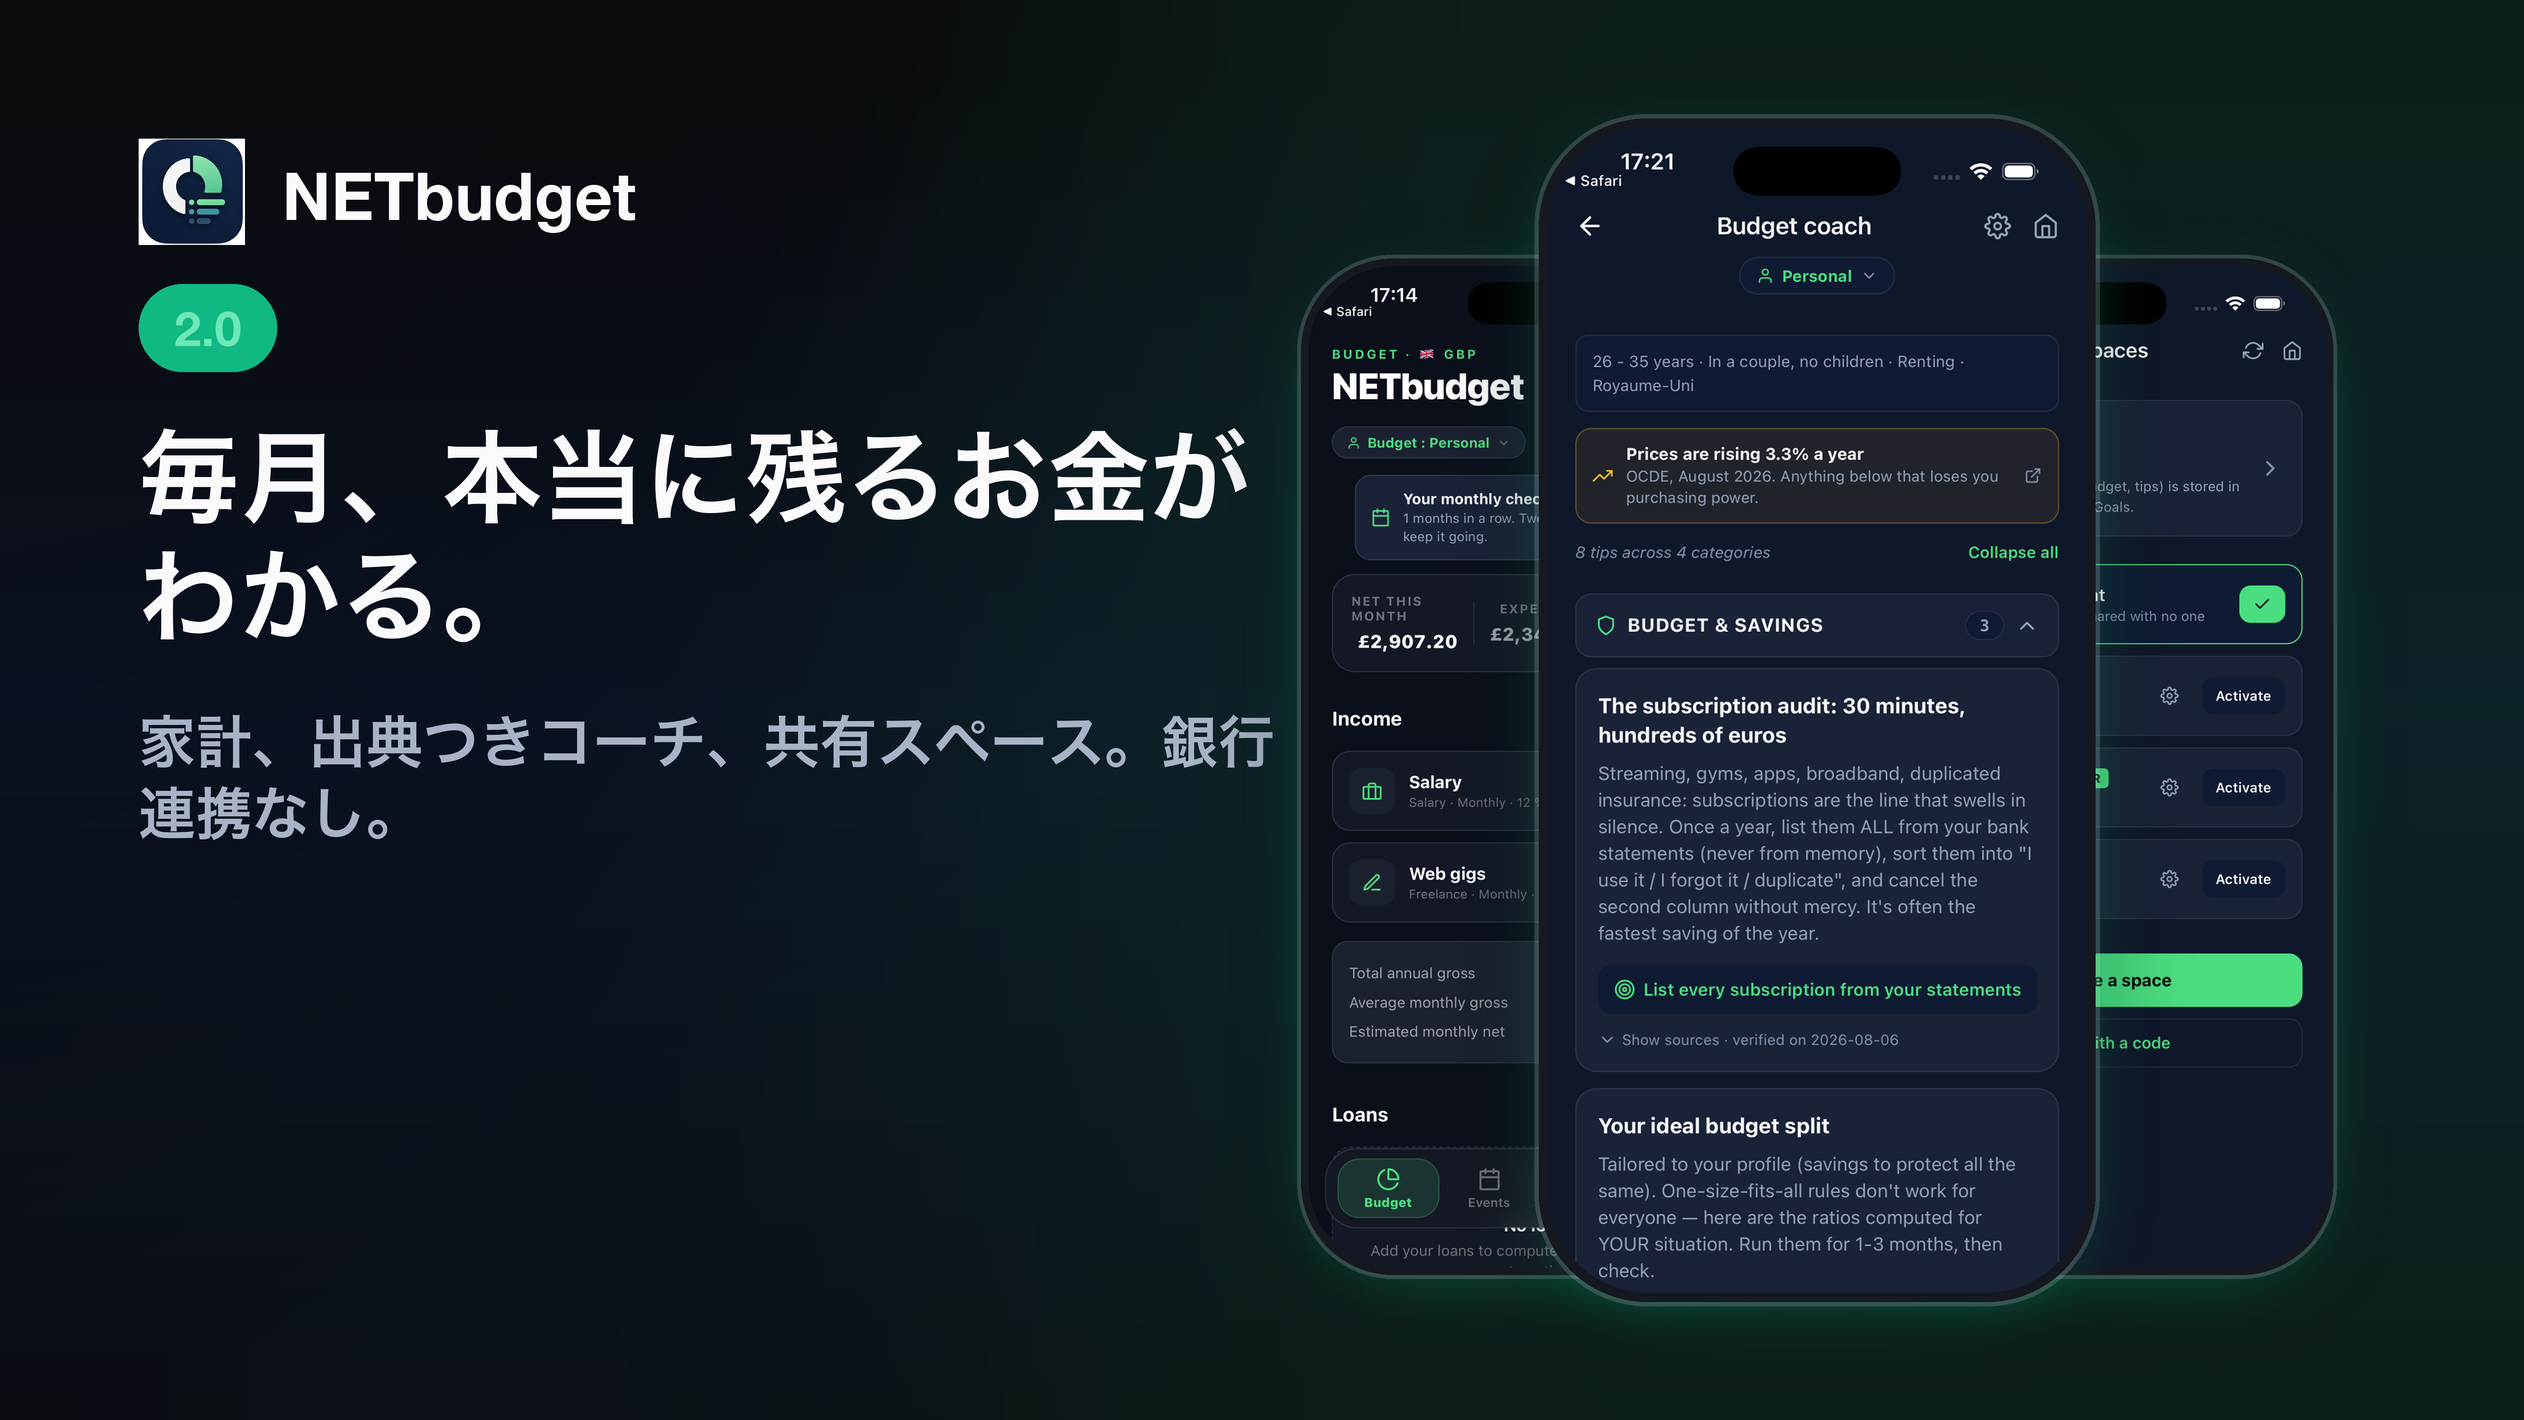
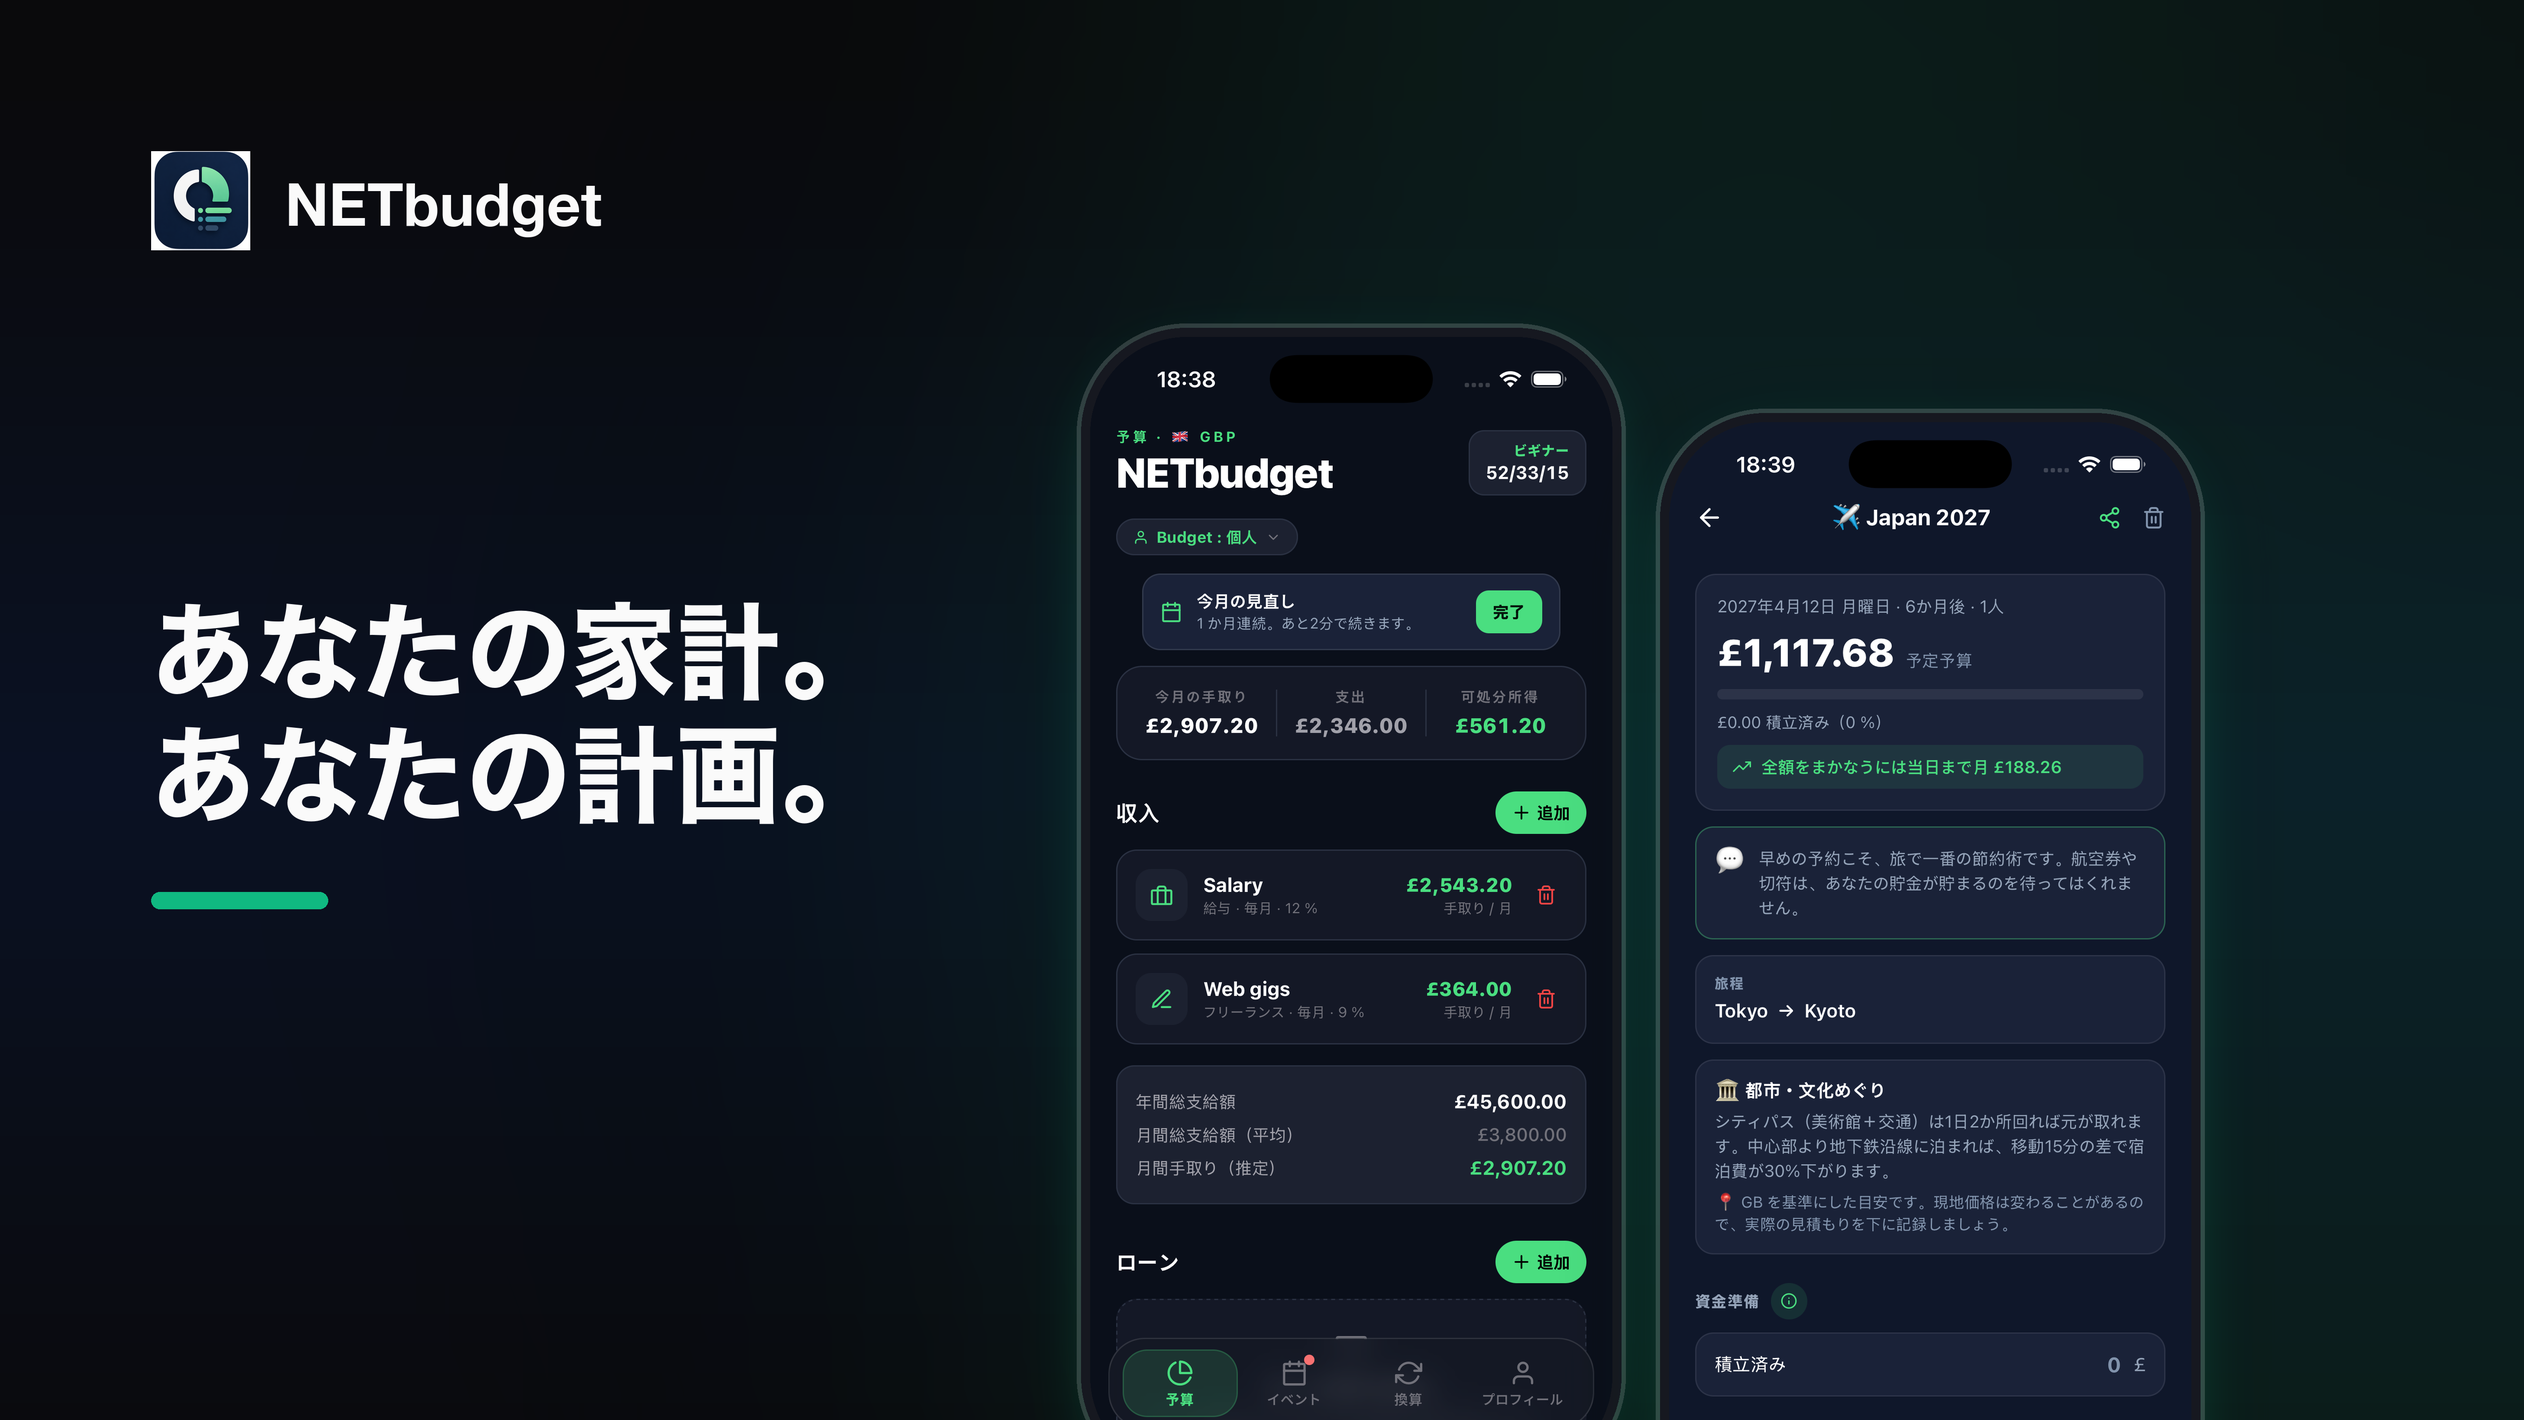
app store 2.0: en-tete et visuel de recherche epures, deux ecrans (reste a vivre, projet voyage) captures dans chacune des huit langues, accroche courte

diff --git a/marketing/appstore/2.0/visuels.py b/marketing/appstore/2.0/visuels.py
@@ -6,11 +6,11 @@ Deux tailles imposées par App Store Connect :
   - en-tête de page produit : 5244 × 2950 px
   - résultats de recherche : 3840 × 1646 px
 
-Un visuel par langue (fr, en, es, pt, de, it, ar, ja) : fond nuit, halo
-menthe, une accroche courte dans la langue, et trois vrais écrans de l'app
-dans des téléphones. Les écrans français servent au français, les écrans
-anglais (Londres, livres sterling) aux sept autres langues : l'app y est
-traduite, mais seules ces deux séries de captures existent.
+Un visuel par langue (fr, en, es, pt, de, it, ar, ja), épuré : fond nuit,
+halo menthe, une accroche de quelques mots, et deux écrans de l'app pris
+dans cette langue : le reste à vivre, et un projet (voyage) avec son budget
+guidé. Rien d'autre. Les captures viennent de caps-i18n/<lang>-budget.png et
+<lang>-projet.png (prises sur le simulateur, app réglée dans la langue).
 
     marketing/promo-video/.venv/bin/python marketing/appstore/2.0/visuels.py
 
@@ -20,31 +20,31 @@ import os
 from PIL import Image, ImageDraw, ImageFilter, ImageFont
 
 HERE = os.path.dirname(os.path.abspath(__file__))
+CAPS = os.path.join(HERE, "captures")
 SITE = "/Users/stephane.pizeuil/projet/netbudget-main/website/public"
 OUT = os.path.join(HERE, "images")
 os.makedirs(OUT, exist_ok=True)
 
-NAVY, NAVY2, INK = (10, 18, 36), (15, 30, 61), (10, 10, 12)
-MINT, MINT_DIM, WHITE, GREY = (110, 231, 183), (16, 185, 129), (250, 250, 250), (168, 179, 199)
+INK, NAVY = (10, 10, 12), (10, 18, 36)
+MINT, MINT_DIM, WHITE = (110, 231, 183), (16, 185, 129), (250, 250, 250)
 
+# Une accroche, courte. Deux lignes maximum, pas de sous-titre.
 COPY = {
-  "fr": ("Sache ce qu'il te reste\nvraiment chaque mois.", "Budget, Coach sourcé, espaces partagés. Sans connexion bancaire."),
-  "en": ("Know what you really\nhave left each month.", "Budget, sourced Coach, shared spaces. No bank connection."),
-  "es": ("Sabe lo que te queda\nde verdad cada mes.", "Presupuesto, Coach con fuentes, espacios compartidos. Sin conexión bancaria."),
-  "pt": ("Sabe o que te sobra\nmesmo todos os meses.", "Orçamento, Coach com fontes, espaços partilhados. Sem ligação ao banco."),
-  "de": ("Wissen, was dir jeden\nMonat wirklich bleibt.", "Budget, belegter Coach, geteilte Bereiche. Ohne Bankverbindung."),
-  "it": ("Sai quanto ti resta\ndavvero ogni mese.", "Budget, Coach con fonti, spazi condivisi. Senza collegamento alla banca."),
-  "ar": ("اعرف ما يتبقّى لك\nفعلًا كل شهر.", "ميزانية، مرشد موثّق، مساحات مشتركة. دون ربط بالبنك."),
-  "ja": ("毎月、本当に残るお金が\nわかる。", "家計、出典つきコーチ、共有スペース。銀行連携なし。"),
+  "fr": "Ton budget.\nTes projets.",
+  "en": "Your budget.\nYour plans.",
+  "es": "Tu presupuesto.\nTus proyectos.",
+  "pt": "O teu orçamento.\nOs teus projetos.",
+  "de": "Dein Budget.\nDeine Pläne.",
+  "it": "Il tuo budget.\nI tuoi progetti.",
+  "ar": "ميزانيتك.\nمشاريعك.",
+  "ja": "あなたの家計。\nあなたの計画。",
 }
-SCREENS = {"fr": ["budget", "coach", "espaces"], "en": ["budget", "coach", "espaces"]}
 
-def font(lang, size, bold=True):
-    """Police système adaptée à l'écriture. Repli sur Arial Unicode."""
+def font(lang, size):
     cands = {
-        "ja": [("/System/Library/Fonts/ヒラギノ角ゴシック W6.ttc", 0), ("/System/Library/Fonts/Hiragino Sans GB.ttc", 0), ("/Library/Fonts/Arial Unicode.ttf", 0)],
-        "ar": [("/System/Library/Fonts/GeezaPro.ttc", 1 if bold else 0), ("/Library/Fonts/Arial Unicode.ttf", 0)],
-    }.get(lang, [("/System/Library/Fonts/HelveticaNeue.ttc", 1 if bold else 0), ("/System/Library/Fonts/Helvetica.ttc", 1 if bold else 0)])
+        "ja": [("/System/Library/Fonts/ヒラギノ角ゴシック W7.ttc", 0), ("/System/Library/Fonts/Hiragino Sans GB.ttc", 0), ("/Library/Fonts/Arial Unicode.ttf", 0)],
+        "ar": [("/System/Library/Fonts/GeezaPro.ttc", 1), ("/Library/Fonts/Arial Unicode.ttf", 0)],
+    }.get(lang, [("/System/Library/Fonts/HelveticaNeue.ttc", 1), ("/System/Library/Fonts/Helvetica.ttc", 1)])
     for path, idx in cands:
         if os.path.exists(path):
             try: return ImageFont.truetype(path, size, index=idx)
@@ -59,25 +59,20 @@ def shape(lang, text):
 
 def background(w, h):
     img = Image.new("RGB", (w, h), INK)
-    # Dégradé vertical nuit, puis halo menthe à droite (derrière les téléphones).
     grad = Image.new("RGB", (1, h))
     for y in range(h):
-        t = y / h
-        grad.putpixel((0, y), tuple(int(INK[i] + (NAVY[i] - INK[i]) * (1 - abs(t - 0.5) * 2) * 0.9) for i in range(3)))
+        t = 1 - abs(y / h - 0.55) * 2
+        grad.putpixel((0, y), tuple(int(INK[i] + (NAVY[i] - INK[i]) * max(0, t)) for i in range(3)))
     img.paste(grad.resize((w, h)))
     halo = Image.new("RGB", (w, h), (0, 0, 0)); d = ImageDraw.Draw(halo)
-    r = int(h * 0.75); cx, cy = int(w * 0.72), int(h * 0.5)
-    d.ellipse((cx - r, cy - r, cx + r, cy + r), fill=(18, 70, 56))
-    r2 = int(h * 0.35); cx2, cy2 = int(w * 0.18), int(h * 0.85)
-    d.ellipse((cx2 - r2, cy2 - r2, cx2 + r2, cy2 + r2), fill=(12, 40, 60))
-    halo = halo.filter(ImageFilter.GaussianBlur(h * 0.18))
-    return Image.blend(img, Image.composite(halo, img, halo.convert("L").point(lambda v: min(255, v * 3))), 0.55)
+    r = int(h * 0.7); cx, cy = int(w * 0.70), int(h * 0.55)
+    d.ellipse((cx - r, cy - r, cx + r, cy + r), fill=(16, 64, 52))
+    halo = halo.filter(ImageFilter.GaussianBlur(h * 0.2))
+    return Image.blend(img, Image.composite(halo, img, halo.convert("L").point(lambda v: min(255, v * 3))), 0.6)
 
-def phone(capture_path, height):
-    """Un téléphone : coins arrondis, liseré, lueur douce. Renvoie une image RGBA."""
-    cap = Image.open(capture_path).convert("RGB")
-    ratio = cap.width / cap.height
-    sh = height; sw = int(sh * ratio)
+def phone(path, height):
+    cap = Image.open(path).convert("RGB")
+    sh = height; sw = int(sh * cap.width / cap.height)
     cap = cap.resize((sw, sh), Image.LANCZOS)
     pad = int(sh * 0.012); radius = int(sh * 0.085)
     w, h = sw + 2 * pad, sh + 2 * pad
@@ -85,78 +80,52 @@ def phone(capture_path, height):
     d.rounded_rectangle((0, 0, w - 1, h - 1), radius=radius + pad, fill=(22, 24, 32, 255), outline=(255, 255, 255, 40), width=max(2, pad // 3))
     mask = Image.new("L", (sw, sh), 0); ImageDraw.Draw(mask).rounded_rectangle((0, 0, sw - 1, sh - 1), radius=radius, fill=255)
     body.paste(cap, (pad, pad), mask)
-    # Lueur sous le téléphone
     glow = Image.new("RGBA", (w + 400, h + 400), (0, 0, 0, 0))
-    ImageDraw.Draw(glow).rounded_rectangle((200, 230, 200 + w, 230 + h), radius=radius + pad, fill=(16, 185, 129, 110))
+    ImageDraw.Draw(glow).rounded_rectangle((200, 240, 200 + w, 240 + h), radius=radius + pad, fill=(16, 185, 129, 100))
     glow = glow.filter(ImageFilter.GaussianBlur(90))
     glow.alpha_composite(body, (200, 200))
     return glow
 
 def compose(lang, w, h, name):
-    img = background(w, h)
-    d = ImageDraw.Draw(img)
-    # Marges proportionnelles
-    m = int(w * 0.055)
-    # Logo + nom
+    img = background(w, h); d = ImageDraw.Draw(img)
+    m = int(w * 0.06)
+    # Logo et nom, discrets, en haut à gauche.
     logo = Image.open(os.path.join(SITE, "logo.png")).convert("RGBA")
-    ls = int(h * 0.075); logo = logo.resize((ls, ls), Image.LANCZOS)
+    ls = int(h * 0.07); logo = logo.resize((ls, ls), Image.LANCZOS)
     img.paste(logo, (m, m), logo)
-    f_name = font("en", int(ls * 0.62))
-    d.text((m + ls + int(ls * 0.35), m + int(ls * 0.16)), "NETbudget", font=f_name, fill=WHITE)
+    d.text((m + ls + int(ls * 0.35), m + int(ls * 0.17)), "NETbudget", font=font("en", int(ls * 0.6)), fill=WHITE)
 
-    # Accroche
-    head, sub = COPY[lang]
-    text_w = int(w * 0.46)
-    # L'accroche se réduit jusqu'à tenir dans sa colonne : une ligne qui passe
-    # sous les téléphones est une accroche illisible.
-    size = int(h * 0.105)
+    # Deux téléphones côte à côte, tous deux lisibles : le reste à vivre à
+    # gauche, le projet (son nom, son budget prévu, sa mensualité) à droite,
+    # légèrement plus bas. Les écrans dépassent le bord bas : on ne voit que
+    # la partie haute, celle qui compte.
+    ph_h = int(h * 0.80)
+    budget = phone(os.path.join(CAPS, f"{lang}-budget.png"), ph_h)
+    projet = phone(os.path.join(CAPS, f"{lang}-projet.png"), ph_h)
+    gap = int(w * 0.012)
+    total = budget.width + projet.width - 400 + gap  # 200 px de marge de lueur de chaque côté
+    x0 = int(w * 0.95) - total - 200
+    top = int(h * 0.16)
+    img.paste(budget, (x0, top), budget)
+    img.paste(projet, (x0 + budget.width - 400 + gap, top + int(h * 0.06)), projet)
+    # Accroche : grande, deux lignes, centrée verticalement dans la colonne.
+    text_w = x0 - int(w * 0.03) - m
+    head = shape(lang, COPY[lang])
+    size = int(h * 0.15)
     while size > int(h * 0.05):
-        f_head = font(lang, size)
-        if max(ImageDraw.Draw(img).textlength(shape(lang, l), font=f_head) for l in head.split("\n")) <= text_w: break
-        size -= int(h * 0.004)
-    f_sub = font(lang, int(h * 0.04), bold=False)
-    y = int(h * 0.30)
-    if lang == "ar":
-        # Droite à gauche : le texte s'aligne au bord droit de sa colonne.
-        anchor_x = m + text_w; align = "right"; anchor = "ra"
-    else:
-        anchor_x = m; align = "left"; anchor = "la"
-    d.multiline_text((anchor_x, y), shape(lang, head), font=f_head, fill=WHITE, spacing=int(h * 0.02), align=align, anchor=anchor)
-    bbox = d.multiline_textbbox((anchor_x, y), shape(lang, head), font=f_head, spacing=int(h * 0.02), anchor=anchor)
-    # Sous-titre, en deux lignes si trop long
-    sub_s = shape(lang, sub)
-    # Japonais : pas d'espaces, on coupe au caractère, sinon au mot.
-    units = list(sub_s) if lang == "ja" else sub_s.split(" ")
-    joiner = "" if lang == "ja" else " "
-    lines = []; cur = ""
-    for wd in units:
-        trial = (cur + joiner + wd) if cur else wd
-        if d.textlength(trial, font=f_sub) > text_w and cur: lines.append(cur); cur = wd
-        else: cur = trial
-    lines.append(cur)
-    if lang == "ar": lines = lines[::-1] if len(lines) > 1 else lines
-    d.multiline_text((anchor_x, bbox[3] + int(h * 0.05)), "\n".join(lines), font=f_sub, fill=GREY, spacing=int(h * 0.015), align=align, anchor=anchor)
+        f = font(lang, size)
+        if max(d.textlength(l, font=f) for l in head.split("\n")) <= text_w: break
+        size -= int(h * 0.003)
+    anchor_x, anchor, align = (m + text_w, "ra", "right") if lang == "ar" else (m, "la", "left")
+    bbox = d.multiline_textbbox((anchor_x, 0), head, font=f, spacing=int(h * 0.02), anchor=anchor)
+    y = (h - (bbox[3] - bbox[1])) // 2
+    d.multiline_text((anchor_x, y), head, font=f, fill=WHITE, spacing=int(h * 0.02), align=align, anchor=anchor)
+    # Un trait menthe sous l'accroche : le seul ornement.
+    ly = y + (bbox[3] - bbox[1]) + int(h * 0.05)
+    lx = (m + text_w - int(w * 0.07)) if lang == "ar" else m
+    d.rounded_rectangle((lx, ly, lx + int(w * 0.07), ly + int(h * 0.012)), radius=int(h * 0.006), fill=MINT_DIM)
 
-    # Pastille « 2.0 »
-    f_pill = font("en", int(h * 0.034))
-    pill_txt = "2.0"; pw = int(d.textlength(pill_txt, font=f_pill)) + int(h * 0.05); ph = int(h * 0.062)
-    px, py = (m + text_w - pw) if lang == "ar" else m, int(h * 0.20)
-    d.rounded_rectangle((px, py, px + pw, py + ph), radius=ph // 2, fill=(16, 185, 129, 40), outline=MINT_DIM, width=max(2, h // 500))
-    d.text((px + pw / 2, py + ph / 2), pill_txt, font=f_pill, fill=MINT, anchor="mm")
-
-    # Téléphones : trois écrans, le central devant.
-    series = "fr" if lang == "fr" else "en"
-    keys = SCREENS[series]
-    ph_h = int(h * 0.82)
-    phones = [phone(os.path.join(SITE, "screens", series, f"{k}-720.png"), ph_h if i == 1 else int(ph_h * 0.86)) for i, k in enumerate(keys)]
-    cx = int(w * 0.72); base_y = int(h * 0.5)
-    spread = int(w * 0.11)
-    order = [0, 2, 1]  # les latéraux d'abord, le central par-dessus
-    for i in order:
-        p = phones[i]; dx = (i - 1) * spread
-        x = cx + dx - p.width // 2; yy = base_y - p.height // 2 + (0 if i == 1 else int(h * 0.04))
-        img.paste(p, (x, yy), p)
-
+    # Deux téléphones : le reste à vivre devant, le projet derrière, décalé.
     img.save(os.path.join(OUT, f"{name}-{lang}.png"), optimize=True)
 
 if __name__ == "__main__":
